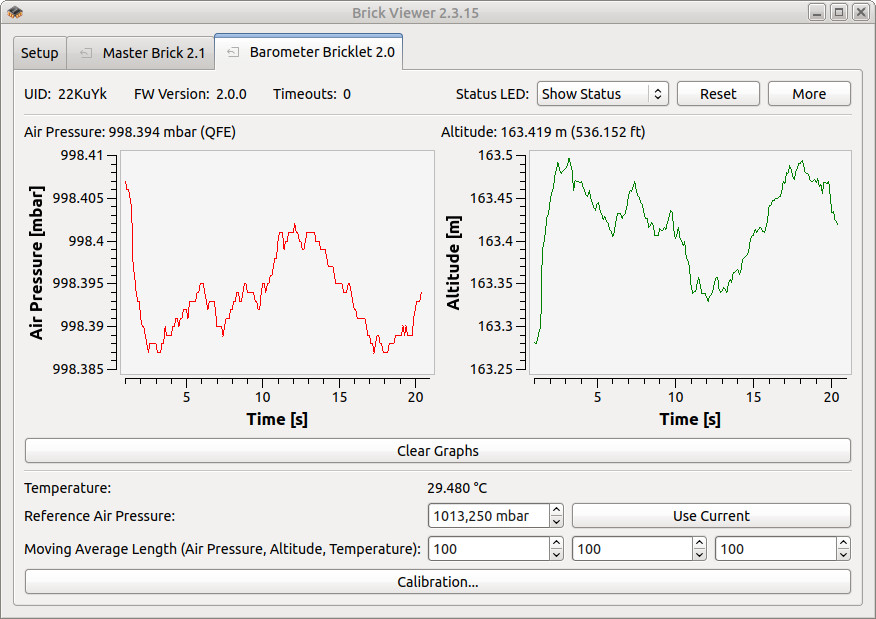
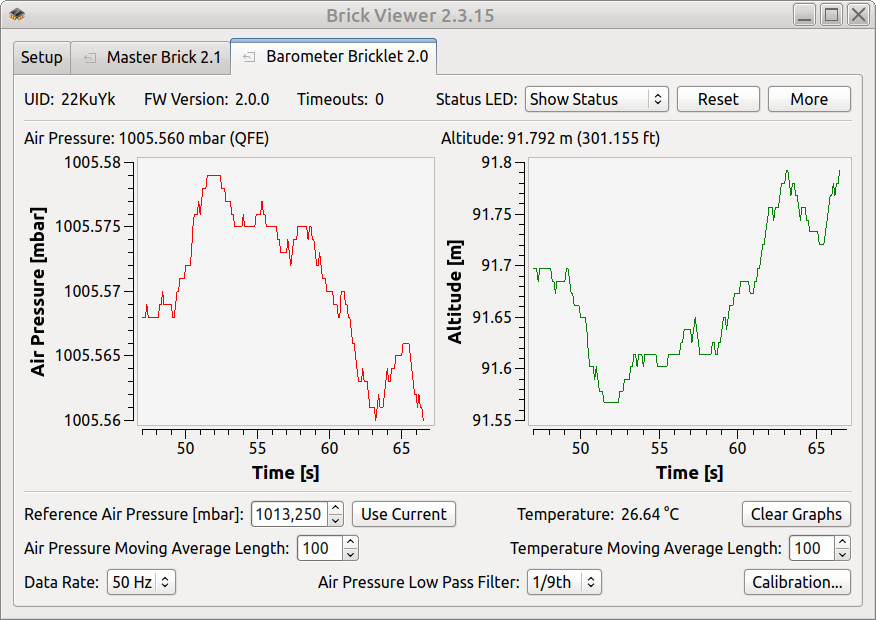
barometer-v2: Update brickv screenshot

diff --git a/en/source/Hardware/Bricklets/Barometer_V2.rst b/en/source/Hardware/Bricklets/Barometer_V2.rst
@@ -105,9 +105,6 @@ Test your Barometer Bricklet 2.0
 If everything went as expected you can now see the air pressure in mbar
 and a graph that shows the air pressure over time.
 
-..
-  TODO: Make screenshot
-
 .. image:: /Images/Bricklets/bricklet_barometer_v2_brickv.jpg
    :scale: 100 %
    :alt: Barometer Bricklet 2.0 in Brick Viewer
